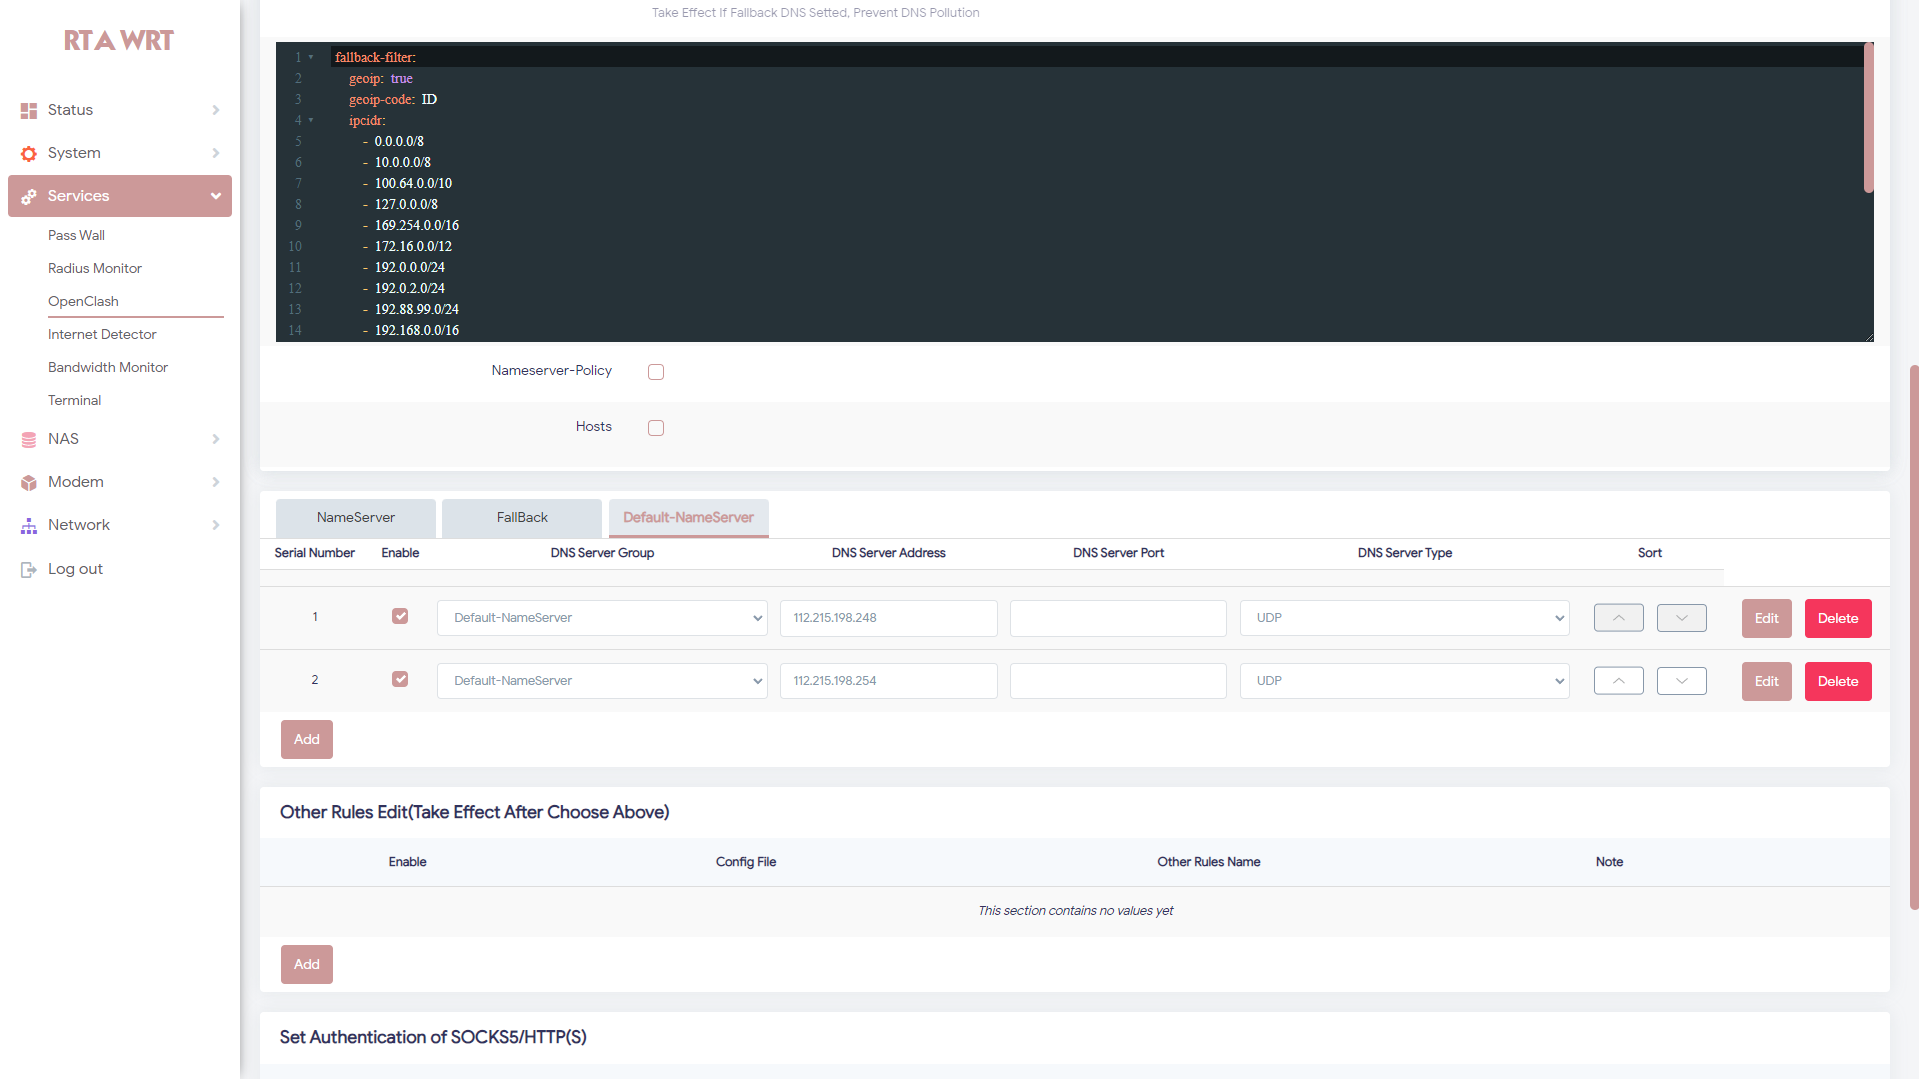
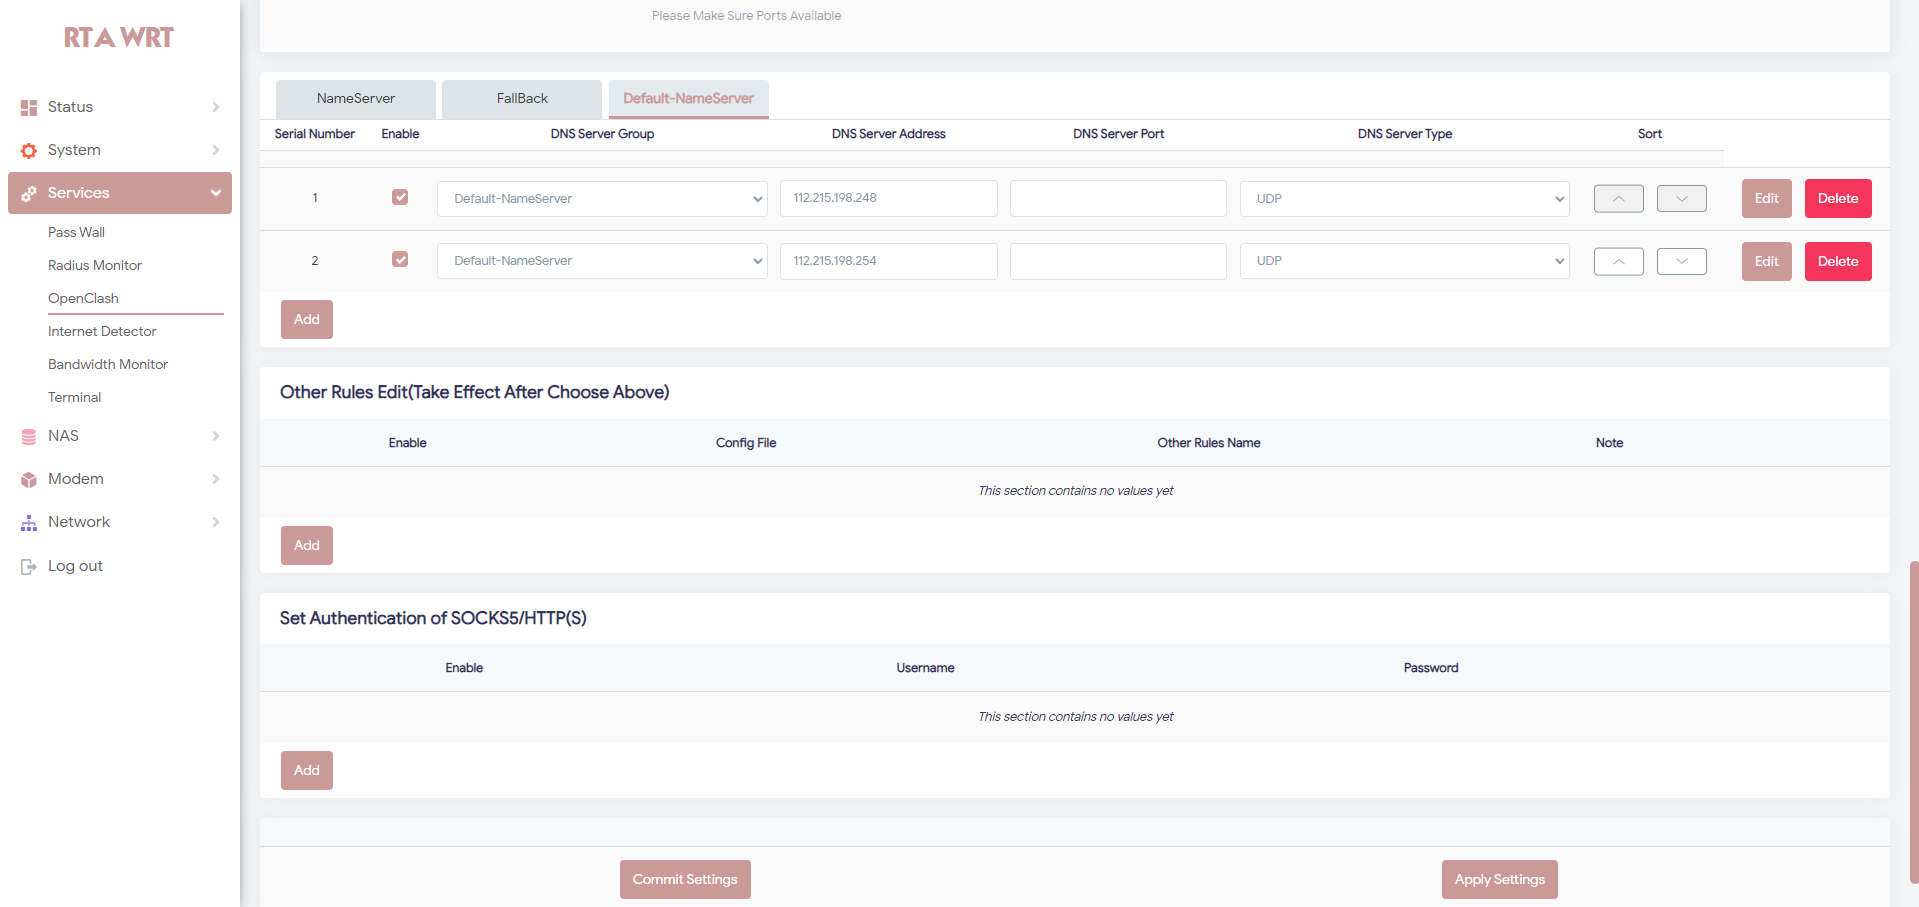
Update

diff --git a/README.md b/README.md
@@ -16,6 +16,8 @@
 
 Simpel Config Pisah Traffic OpenClash Meta Version
 
+- Fast Connect
+- Anti Leaked
 - Pisah Trafik Gaming Online
 - Pisah Trafik Indo Only
 - Adblock
@@ -47,11 +49,25 @@ Simpel Config Pisah Traffic OpenClash Meta Version
 
 ![img1](image/DNS.png)
 
+* Jika Ingin Menambahkan DNS Baru
+
+![img1](image/Add-DNS.png)
+
 ### Yacd Overviews Configuration
+
+* Setting DNS Di Yacd
+  * `Jika Dari ISP / MODEM` `DNS Leaked`. Tapi Fast Connect
+  * `Jika Dari SERVER` `DNS Anti Leaked`. Tapi Butuh Beberapa Detik Baru Internet Jalan
+* `NOTES` : Leaked Di Atas Tergantung Saat Pengisian DNS Di `Default-NameServer`
+  * Silahkan Cek Di Atas Fungsinya
+
+![img1](image/DNS-SET.png)
+
+* Setting Global Proxy
+  * `Traffic-Browsing`
 
 ![img6](image/Yacd.png)
 
-#### PADA BAGIAN PROXY GROUP GLOBAL PILIH `Traffic-Browsing`
 
 ---
 
